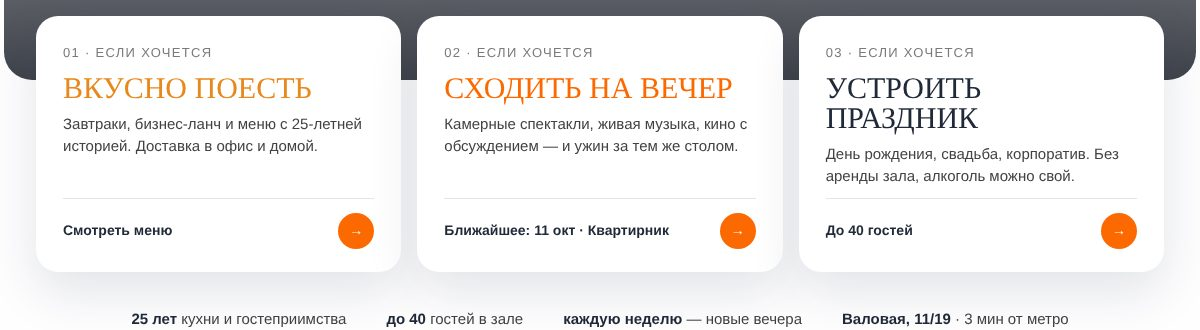
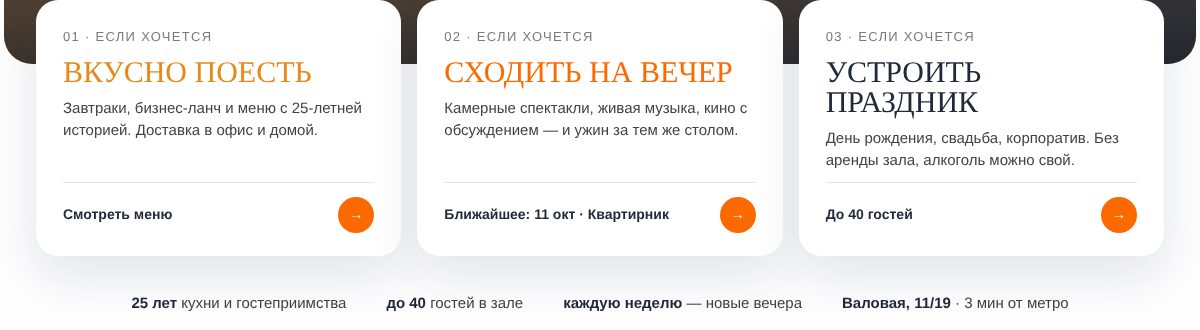
Портфолио: в кейсе «Баловень» весь сайт по страницам, мобильная версия и UI-кит
Claude-Session: https://claude.ai/code/session_01WR5yuQg2ZJMuhEbUkvTby1

diff --git a/portfolio/index.html b/portfolio/index.html
@@ -227,6 +227,60 @@ dialog[open]{animation:winIn .28s cubic-bezier(.2,.8,.2,1)}
   .ba{aspect-ratio:4/5}
 }
 
+.show-head{display:grid;grid-template-columns:minmax(0,1.2fr) minmax(0,1fr);gap:20px;align-items:end;margin-bottom:14px}
+.show-head h3{font-size:clamp(20px,2.4vw,30px)!important;line-height:1.05;letter-spacing:-.03em;margin:6px 0 0!important;font-weight:700}
+.show-head p{font-size:13px!important;color:var(--muted)}
+.pg-tabs{display:flex;gap:6px;overflow-x:auto;padding-bottom:10px;scrollbar-width:none}
+.pg-tab{flex:none;border:1px solid var(--line);background:transparent;color:var(--ink);border-radius:999px;padding:8px 14px;font-size:12px;transition:background .2s,color .2s}
+.pg-tab.on{background:var(--active);color:var(--active-text);border-color:var(--active)}
+.browser{border:1px solid var(--line);border-radius:14px;overflow:hidden;background:#fff;box-shadow:0 20px 50px rgb(0 0 0 / .12)}
+.browser-bar{display:flex;align-items:center;gap:6px;padding:10px 12px;background:color-mix(in srgb, var(--ink) 6%, var(--panel));border-bottom:1px solid var(--line)}
+.browser-bar i{width:9px;height:9px;border-radius:50%;background:var(--line)}
+.browser-url{margin-left:10px;flex:1;font-size:11px;color:var(--muted);background:var(--panel);border-radius:6px;padding:4px 10px;max-width:340px;white-space:nowrap;overflow:hidden;text-overflow:ellipsis}
+.browser-view{height:min(560px,70vh);overflow-y:auto;overscroll-behavior:contain}
+.browser-view img{display:block;width:100%;height:auto;transition:opacity .25s}
+.browser-view img.swap{opacity:0}
+.phones{display:grid;grid-template-columns:repeat(3,minmax(0,1fr));gap:18px;justify-items:center}
+.phone{margin:0;display:flex;flex-direction:column;align-items:center;gap:10px;width:100%;max-width:230px}
+.phone-screen{position:relative;width:100%;aspect-ratio:9/18.5;border:8px solid var(--active);border-radius:30px;overflow:hidden;background:#fff;box-shadow:0 18px 40px rgb(0 0 0 / .15)}
+.phone-screen::before{content:"";position:absolute;top:6px;left:50%;transform:translateX(-50%);width:34%;height:14px;border-radius:999px;background:var(--active);z-index:2}
+.phone-screen img{display:block;width:100%;height:auto;animation:phoneScroll 30s ease-in-out infinite alternate}
+.phone:hover img{animation-play-state:paused}
+@keyframes phoneScroll{0%,6%{transform:translateY(0)}94%,100%{transform:translateY(calc(-100% + 420px))}}
+.phone figcaption{font-size:11px;text-transform:uppercase;letter-spacing:.05em;color:var(--muted)}
+.kit-grid{display:grid;grid-template-columns:repeat(6,minmax(0,1fr));gap:12px}
+.kit-card{border:1px solid var(--line);border-radius:14px;padding:16px;display:flex;flex-direction:column;gap:12px;min-width:0;background:color-mix(in srgb, var(--panel) 85%, #fff)}
+.kit-card img{display:block;width:100%;height:auto;border-radius:8px}
+.kit-colors{grid-column:span 4}
+.kit-type{grid-column:span 2}
+.kit-ui{grid-column:span 3}
+.kit-event{grid-column:span 3;justify-content:center}
+.kit-format{grid-column:span 6;flex-direction:row;align-items:center;gap:18px}
+.kit-format img{max-width:200px}
+.swatches{display:grid;grid-template-columns:repeat(5,minmax(0,1fr));gap:10px}
+.swatches div{display:flex;flex-direction:column;gap:3px;font-size:12px}
+.swatches span{aspect-ratio:1;border-radius:12px;border:1px solid rgb(0 0 0 / .06);transition:transform .25s cubic-bezier(.3,1.6,.5,1)}
+.swatches div:hover span{transform:scale(1.07) rotate(-3deg)}
+.swatches small{font-size:10px;color:var(--muted);font-variant-numeric:tabular-nums}
+.type-big{font-family:Constantia,"Bodoni 72",Georgia,serif;font-size:44px;line-height:1;color:#fd6901;text-transform:uppercase}
+.type-text{font-size:14px!important}
+.kit-card small{font-size:10px;color:var(--muted);text-transform:uppercase;letter-spacing:.04em}
+.kit-btns{display:flex;flex-wrap:wrap;gap:8px}
+.kb{font-family:Arial,sans-serif;font-size:11px;letter-spacing:.06em;text-transform:uppercase;border-radius:999px;padding:11px 18px;border:1px solid transparent}
+.kb-o{background:#fd6901;color:#fff}
+.kb-g{border-color:#1f2938;color:#1f2938;background:#fff}
+.kb-w{background:#fff;color:#1f2938;box-shadow:0 2px 10px rgb(0 0 0 / .1)}
+@media (max-width:760px){
+  .show-head{grid-template-columns:1fr}
+  .phones{display:flex;gap:14px;overflow-x:auto;justify-content:flex-start;padding-bottom:8px;scroll-snap-type:x mandatory}
+  .phone{flex:0 0 200px;scroll-snap-align:start}
+  @keyframes phoneScroll{0%,6%{transform:translateY(0)}94%,100%{transform:translateY(calc(-100% + 380px))}}
+  .kit-grid{grid-template-columns:1fr}
+  .kit-colors,.kit-type,.kit-ui,.kit-event,.kit-format{grid-column:auto}
+  .kit-format{flex-direction:column;align-items:flex-start}
+  .swatches{grid-template-columns:repeat(5,minmax(0,1fr));gap:6px}
+}
+
 /* услуги карточками */
 dialog.wide{width:min(1120px, calc(100vw - 32px))}
 .svc-head{display:grid;grid-template-columns:minmax(0,1fr) minmax(0,420px);gap:24px;align-items:end}
@@ -539,6 +593,55 @@ button.svc-card{font:inherit}
       <div class="shot"><img src="img/baloven-lunch.jpg" alt="Бизнес-ланч с отмеченным сегодняшним днём" loading="lazy"></div>
     </div>
 
+
+    <div class="site-show">
+      <div class="show-head"><div><span class="case-n">Весь сайт</span><h3>10 страниц, каждая со своей задачей</h3></div><p>Переключайте страницы и листайте внутри окна.</p></div>
+      <div class="pg-tabs" role="tablist"><button type="button" class="pg-tab on" data-src="img/baloven/full-index.jpg" data-url="baloven-redesign.netlify.app/">Главная</button><button type="button" class="pg-tab" data-src="img/baloven/full-menu.jpg" data-url="baloven-redesign.netlify.app/menu">Меню</button><button type="button" class="pg-tab" data-src="img/baloven/full-afisha.jpg" data-url="baloven-redesign.netlify.app/afisha">Афиша</button><button type="button" class="pg-tab" data-src="img/baloven/full-kvartirniki.jpg" data-url="baloven-redesign.netlify.app/afisha/kvartirniki">Квартирники</button><button type="button" class="pg-tab" data-src="img/baloven/full-banquets.jpg" data-url="baloven-redesign.netlify.app/banquets">Банкеты</button><button type="button" class="pg-tab" data-src="img/baloven/full-about.jpg" data-url="baloven-redesign.netlify.app/about">О нас</button><button type="button" class="pg-tab" data-src="img/baloven/full-booking.jpg" data-url="baloven-redesign.netlify.app/booking">Бронирование</button></div>
+      <div class="browser">
+        <div class="browser-bar"><i></i><i></i><i></i><span class="browser-url">baloven-redesign.netlify.app/</span></div>
+        <div class="browser-view" tabindex="0" aria-label="Страница сайта, можно листать"><img src="img/baloven/full-index.jpg" alt="Страница сайта «Баловня» целиком" loading="lazy"></div>
+      </div>
+    </div>
+
+    <div class="mob-show">
+      <div class="show-head"><div><span class="case-n">Мобильная версия</span><h3>Удобно с телефона, откуда приходит большинство гостей</h3></div><p>Каждую страницу я рисую отдельно под экран телефона.</p></div>
+      <div class="phones">
+        <figure class="phone"><div class="phone-screen"><img src="img/baloven/mob-index.jpg" alt="Главная на телефоне" loading="lazy"></div><figcaption>Главная</figcaption></figure>
+        <figure class="phone"><div class="phone-screen"><img src="img/baloven/mob-afisha.jpg" alt="Афиша на телефоне" loading="lazy" style="animation-delay:-6s"></div><figcaption>Афиша</figcaption></figure>
+        <figure class="phone"><div class="phone-screen"><img src="img/baloven/mob-menu.jpg" alt="Меню на телефоне" loading="lazy" style="animation-delay:-12s"></div><figcaption>Меню</figcaption></figure>
+      </div>
+    </div>
+
+    <div class="kit">
+      <div class="show-head"><div><span class="case-n">UI-кит</span><h3>Дизайн-система, чтобы сайт рос без хаоса</h3></div><p>Цвета, шрифты и готовые блоки. Новую страницу или событие можно собрать за минуты, и всё будет в одном стиле.</p></div>
+      <div class="kit-grid">
+        <div class="kit-card kit-colors">
+          <span class="up">Цвета бренда</span>
+          <div class="swatches">
+            <div><span style="background:#75c3ff"></span><b>Небо</b><small>#75C3FF</small></div>
+            <div><span style="background:#fd6901"></span><b>Апельсин</b><small>#FD6901</small></div>
+            <div><span style="background:#e8891d"></span><b>Янтарь</b><small>#E8891D</small></div>
+            <div><span style="background:#eaa87a"></span><b>Персик</b><small>#EAA87A</small></div>
+            <div><span style="background:#1f2938"></span><b>Вечер</b><small>#1F2938</small></div>
+          </div>
+        </div>
+        <div class="kit-card kit-type">
+          <span class="up">Шрифты</span>
+          <div class="type-big">Баловень</div>
+          <small>Bergamasco · Constantia: заголовки</small>
+          <p class="type-text">Авторская кухня днём, сцена вечером.</p>
+          <small>TildaSans: текст</small>
+        </div>
+        <div class="kit-card kit-ui">
+          <span class="up">Кнопки и фильтры</span>
+          <div class="kit-btns"><span class="kb kb-o">Купить билет ↗</span><span class="kb kb-g">Забронировать стол</span><span class="kb kb-w">Забронировать</span></div>
+          <img src="img/baloven/kit-filters.png" alt="Фильтры афиши" loading="lazy">
+        </div>
+        <div class="kit-card kit-event"><span class="up">Карточка события</span><img src="img/baloven/kit-event.jpg" alt="Карточка события в афише" loading="lazy"></div>
+        <div class="kit-card kit-format"><span class="up">Карточка формата</span><img src="img/baloven/kit-format.jpg" alt="Карточка формата вечера" loading="lazy"></div>
+      </div>
+    </div>
+
     <div class="proof">
       <div class="proof-num"><b>3</b><span>недели</span></div>
       <div class="proof-num"><b>55&nbsp;000&nbsp;₽</b><span>стоимость редизайна</span></div>
@@ -780,6 +883,28 @@ button.svc-card{font:inherit}
     setTimeout(function(){ba.classList.remove('hint')},3500);
   }
 
+  // просмотр страниц сайта в окне браузера
+  var autoScroll=null;
+  function stopAuto(){ if(autoScroll){cancelAnimationFrame(autoScroll);autoScroll=null} }
+  function startAuto(view){
+    stopAuto(); if(window.matchMedia('(prefers-reduced-motion: reduce)').matches) return;
+    var t0=null, wait=900;
+    function step(t){ if(!t0) t0=t; if(t-t0>wait){ view.scrollTop+=0.6; if(view.scrollTop+view.clientHeight>=view.scrollHeight-1) return stopAuto(); }
+      autoScroll=requestAnimationFrame(step); }
+    autoScroll=requestAnimationFrame(step);
+  }
+  document.querySelectorAll('.site-show').forEach(function(sh){
+    var view=sh.querySelector('.browser-view'), img=view.querySelector('img'), url=sh.querySelector('.browser-url');
+    ['wheel','touchstart','pointerdown','keydown'].forEach(function(ev){view.addEventListener(ev,stopAuto,{passive:true})});
+    sh.querySelectorAll('.pg-tab').forEach(function(b){
+      b.addEventListener('click',function(){
+        sh.querySelectorAll('.pg-tab').forEach(function(x){x.classList.toggle('on',x===b)});
+        img.classList.add('swap');
+        setTimeout(function(){ img.src=b.dataset.src; url.textContent=b.dataset.url; view.scrollTop=0; img.classList.remove('swap'); startAuto(view); },200);
+      });
+    });
+  });
+
   // окна
   var dock=document.querySelectorAll('.dock button');
   function mark(id){dock.forEach(function(b){b.classList.toggle('on',(b.dataset.open||b.dataset.dock)===id)})}
@@ -787,13 +912,13 @@ button.svc-card{font:inherit}
     b.addEventListener('click',function(){
       document.querySelectorAll('dialog[open]').forEach(function(d){d.close()});
       var d=document.getElementById(b.dataset.open); if(!d) return;
-      d.showModal(); replay(d); baHint(d); d.querySelector('.w-body').scrollTop=0; mark(d.id);
+      d.showModal(); replay(d); baHint(d); stopAuto(); var bv=d.querySelector('.browser-view'); if(bv){bv.scrollTop=0; startAuto(bv);} d.querySelector('.w-body').scrollTop=0; mark(d.id);
     });
   });
   document.querySelectorAll('dialog').forEach(function(d){
     d.querySelector('.w-close').addEventListener('click',function(){d.close()});
     d.addEventListener('click',function(e){if(e.target===d) d.close()});
-    d.addEventListener('close',function(){mark('top')});
+    d.addEventListener('close',function(){mark('top'); stopAuto();});
   });
   document.querySelector('[data-dock="top"]').addEventListener('click',function(){
     document.querySelectorAll('dialog[open]').forEach(function(d){d.close()});
